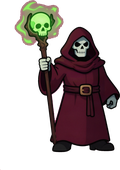
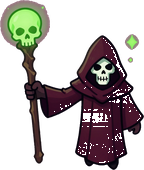
Enemies stand like Last War's horde
- All eight regular enemies redrawn from the high camera angle, facing the
  squad and walking toward it (cultist, crawler, brute, wraith, bloater,
  shield skeleton, necromancer, flesh slime)
- Shadows on the road under every enemy and knight
- Walking bob and sway, faster for faster enemies

diff --git a/src/scenes/game.js b/src/scenes/game.js
@@ -4,9 +4,9 @@
 // unlock is the first wave a type can appear; weight(w) is its spawn weight.
 // The first time a type shows up in a run, its name and tip are announced.
 const ENEMIES = {
-  walker: { key: 'walker', scale: 0.72, hp: 3, speed: 140, r: 28, bite: 1, pts: 10, gain: 0.025, unlock: 1, weight: () => 60 },
+  walker: { key: 'walker', scale: 0.68, hp: 3, speed: 140, r: 28, bite: 1, pts: 10, gain: 0.025, unlock: 1, weight: () => 60 },
   sprinter: {
-    key: 'sprinter', scale: 0.66, hp: 1.6, speed: 330, r: 24, bite: 1, pts: 15, gain: 0.04,
+    key: 'sprinter', scale: 0.56, hp: 1.6, speed: 330, r: 24, bite: 1, pts: 15, gain: 0.04,
     unlock: 2, weight: (w) => 16 + w * 2, name: 'CRAWLER', tip: 'Fast. Shoot it early',
   },
   brute: {
@@ -14,7 +14,7 @@ const ENEMIES = {
     unlock: 3, weight: (w) => 6 + w, name: 'BRUTE', tip: 'Tough, and bites hard',
   },
   wraith: {
-    key: 'wraith', scale: 0.66, hp: 2.4, speed: 190, r: 26, bite: 1, pts: 20, gain: 0.05, zigzag: true,
+    key: 'wraith', scale: 0.62, hp: 2.4, speed: 190, r: 26, bite: 1, pts: 20, gain: 0.05, zigzag: true,
     unlock: 4, weight: (w) => 8 + w, name: 'WRAITH', tip: 'Weaves across the road',
   },
   bloater: {
@@ -22,7 +22,7 @@ const ENEMIES = {
     unlock: 6, weight: (w) => 5 + w * 0.6, name: 'BLOATER', tip: 'Pop it to blast the horde around it',
   },
   shield: {
-    key: 'shield', scale: 0.72, hp: 8, speed: 110, r: 32, bite: 2, pts: 35, gain: 0.08, tag: true, armor: 0.4,
+    key: 'shield', scale: 0.68, hp: 8, speed: 110, r: 32, bite: 2, pts: 35, gain: 0.08, tag: true, armor: 0.4,
     unlock: 7, weight: (w) => 6 + w, name: 'SHIELD SKELETON', tip: 'Its shield blocks most of each bolt',
   },
   summoner: {
@@ -30,10 +30,10 @@ const ENEMIES = {
     unlock: 9, weight: (w) => 3 + w * 0.3, name: 'NECROMANCER', tip: 'Stops and raises cultists. Kill it first',
   },
   splitter: {
-    key: 'splitter', scale: 0.72, hp: 7, speed: 110, r: 36, bite: 2, pts: 30, gain: 0.08, tag: true, splits: true,
+    key: 'splitter', scale: 0.66, hp: 7, speed: 110, r: 36, bite: 2, pts: 30, gain: 0.08, tag: true, splits: true,
     unlock: 11, weight: (w) => 5 + w * 0.6, name: 'FLESH SLIME', tip: 'Splits in two when slain',
   },
-  slimelet: { key: 'splitter', scale: 0.4, hp: 2, speed: 170, r: 20, bite: 1, pts: 8, gain: 0.02, unlock: 99, weight: () => 0 },
+  slimelet: { key: 'splitter', scale: 0.36, hp: 2, speed: 170, r: 20, bite: 1, pts: 8, gain: 0.02, unlock: 99, weight: () => 0 },
 };
 
 // Bosses take turns every 5th wave; each has its own attack. width is the
@@ -162,6 +162,7 @@ class GameScene extends Phaser.Scene {
 
   createWorld() {
     this.ground = this.add.graphics().setDepth(0);
+    this.shadowGfx = this.add.graphics().setDepth(4.5);
     this.roadScroll = 0;
     this.trees = [];
     for (let i = 0; i < 26; i++) {
@@ -198,7 +199,9 @@ class GameScene extends Phaser.Scene {
   projectAll() {
     const list = this.projected || (this.projected = []);
     list.length = 0;
-    const add = (o, depthFromY) => {
+    const sg = this.shadowGfx;
+    sg.clear();
+    const add = (o, depthFromY, walker) => {
       if (!o || !o.visible) return;
       list.push(o);
       o._w = [o.x, o.y, o.scaleX, o.scaleY];
@@ -206,14 +209,28 @@ class GameScene extends Phaser.Scene {
       o.x = p.x;
       o.y = p.y - (o.lift || 0) * p.s;
       o.setScale(o._w[2] * p.s, o._w[3] * p.s);
-      if (depthFromY) o.setDepth(10 + (o._w[1] + 1000) / 10000);
+      if (!depthFromY) return;
+      o.setDepth(10 + (o._w[1] + 1000) / 10000);
+      // Shadow on the road at the feet, offset a little like a low sun.
+      if (!o.lift) {
+        const w = o.displayWidth * 0.7;
+        sg.fillStyle(0x000000, 0.34);
+        sg.fillEllipse(p.x + 8 * p.s, p.y + o.displayHeight * 0.42, w, w * 0.3);
+      }
+      // Walking: a step bob and a side-to-side sway, faster for faster enemies.
+      if (walker) {
+        const f = 6 + (o.def ? o.def.speed : 100) / 35;
+        const ph = this.elapsed * f + (o.wobble || 0);
+        o.y -= Math.abs(Math.sin(ph)) * 7 * p.s;
+        o.setAngle(Math.sin(ph) * 5);
+      }
     };
     this.trees.forEach((o) => add(o));
     this.streaks.forEach((o) => add(o));
     this.embers.forEach((o) => add(o));
     this.gateRows.forEach((row) => row.cards.forEach((c) => add(c)));
     this.barrels.getChildren().forEach((o) => { add(o, true); add(o.hpText); });
-    this.enemies.getChildren().forEach((o) => { add(o, true); add(o.hpText); });
+    this.enemies.getChildren().forEach((o) => { add(o, true, true); add(o.hpText); });
     this.bosses.getChildren().forEach((o) => add(o, true));
     (this.rocks || []).forEach((r) => add(r.img));
     this.knights.forEach((o) => add(o, true));
